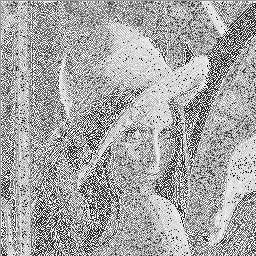
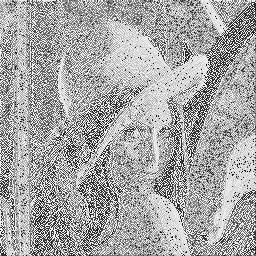
HPF Update

diff --git a/Assignment/Areum/DSP/HPF_filtering.m b/Assignment/Areum/DSP/HPF_filtering.m
@@ -3,7 +3,7 @@ y = uint8(zeros(size(x)));
 
 [Rows,Cols] = size(x);
 z = [];
-b = 2;
+b = 50;
 
 for i = 1:Rows
     z(i,:) = [zeros(1,1), x(i,:), zeros(1,1)];
@@ -16,9 +16,9 @@ for i = 2:Rows
         y(i,j) = 3*z(i,j)-(z(i+1,j) + z(i-1,j) + z(i,j+1) + z(i,j-1)) + ...
         0.25 * (z(i+1,j+1) + z(i+1,j-1) + z(i-1,j+1) + z(i-1, j-1));
         
-        k(i,j) = x(i,j) + b * y(i,j);
+        k(i-1,j-1) = x(i,j) + b * y(i,j);
     end
 end
 
-fileName = strcat('HPF_no_',string(b),'.jpg');
+fileName = strcat('HPF_',string(b),'.jpg');
 imwrite(k,map,fileName);
